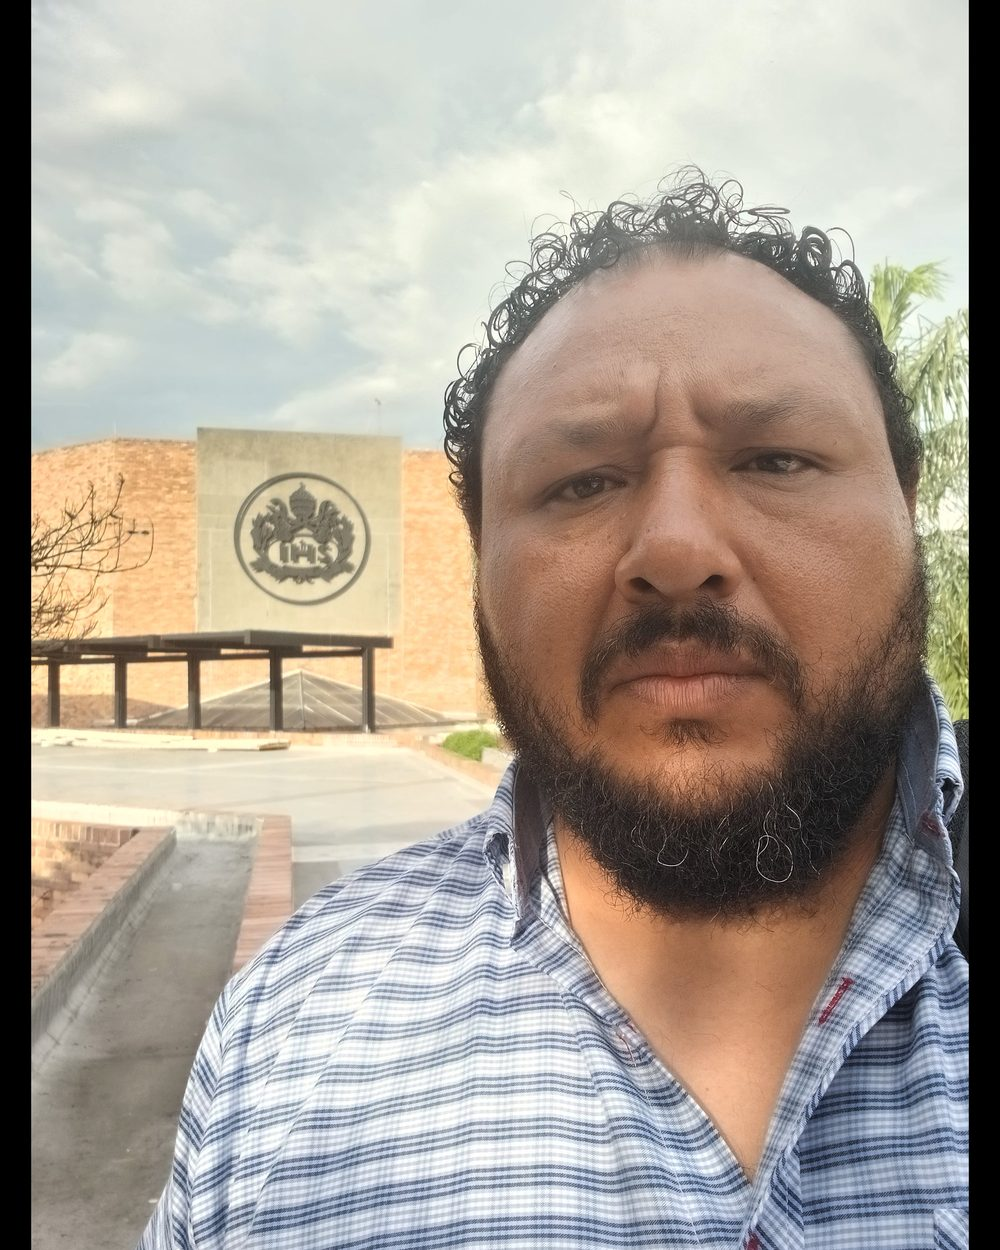
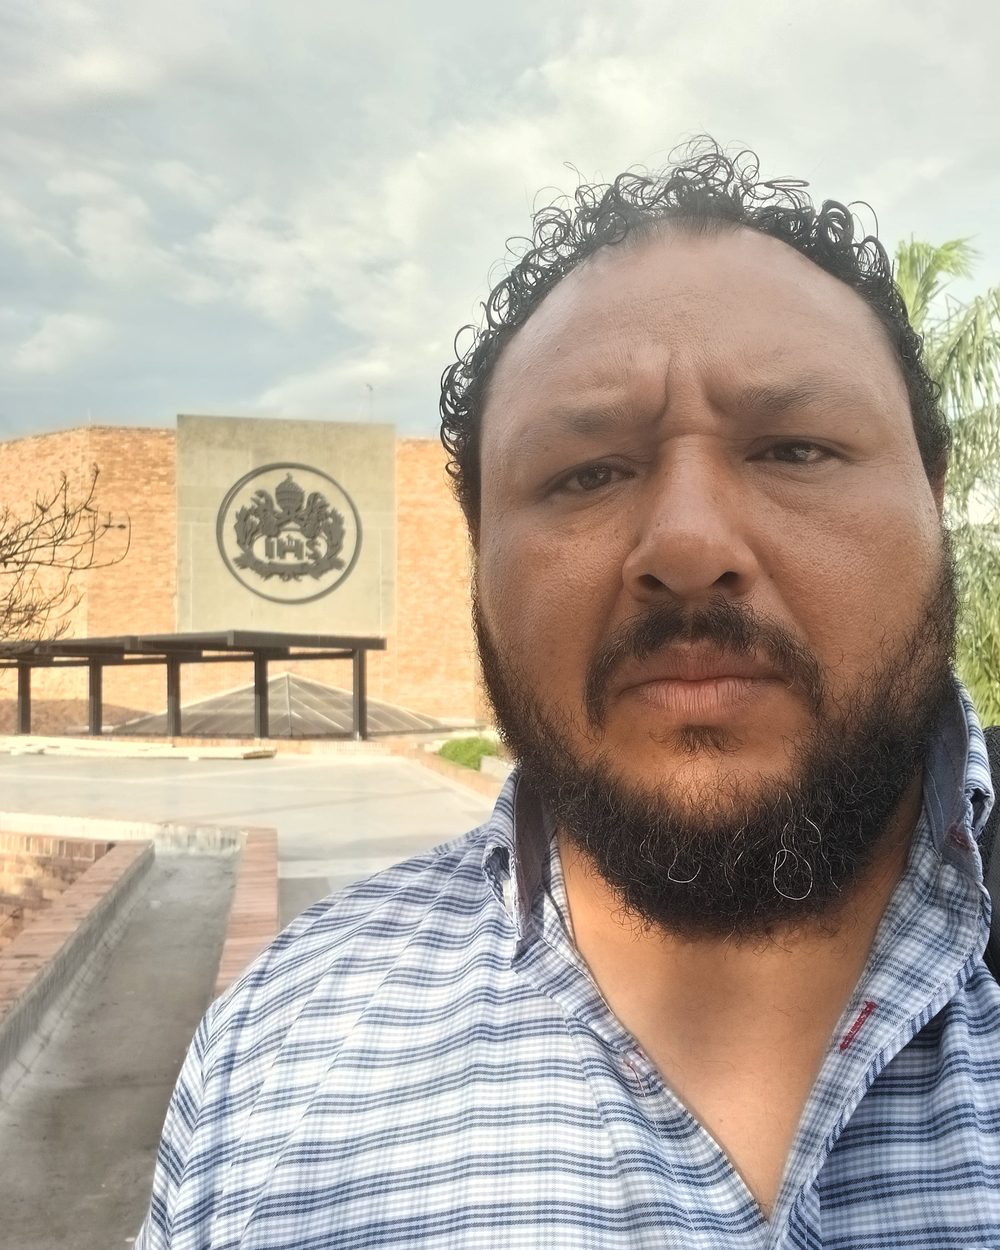
Quitar bordes negros de la foto de Contacto

diff --git a/contacto.html b/contacto.html
@@ -135,7 +135,7 @@
       </div>
 
       <figure class="contact-photo">
-        <img src="assets/img/contacto-congreso-avenidas-torrenciales.jpg"
+        <img src="assets/img/contacto-congreso-avenidas-torrenciales.jpg?v=2"
              alt="Retrato en el congreso de Avenidas Torrenciales, Universidad Javeriana de Cali."
              width="1000" height="1250" loading="lazy">
         <figcaption>Congreso de Avenidas Torrenciales. Universidad Javeriana de Cali.</figcaption>
